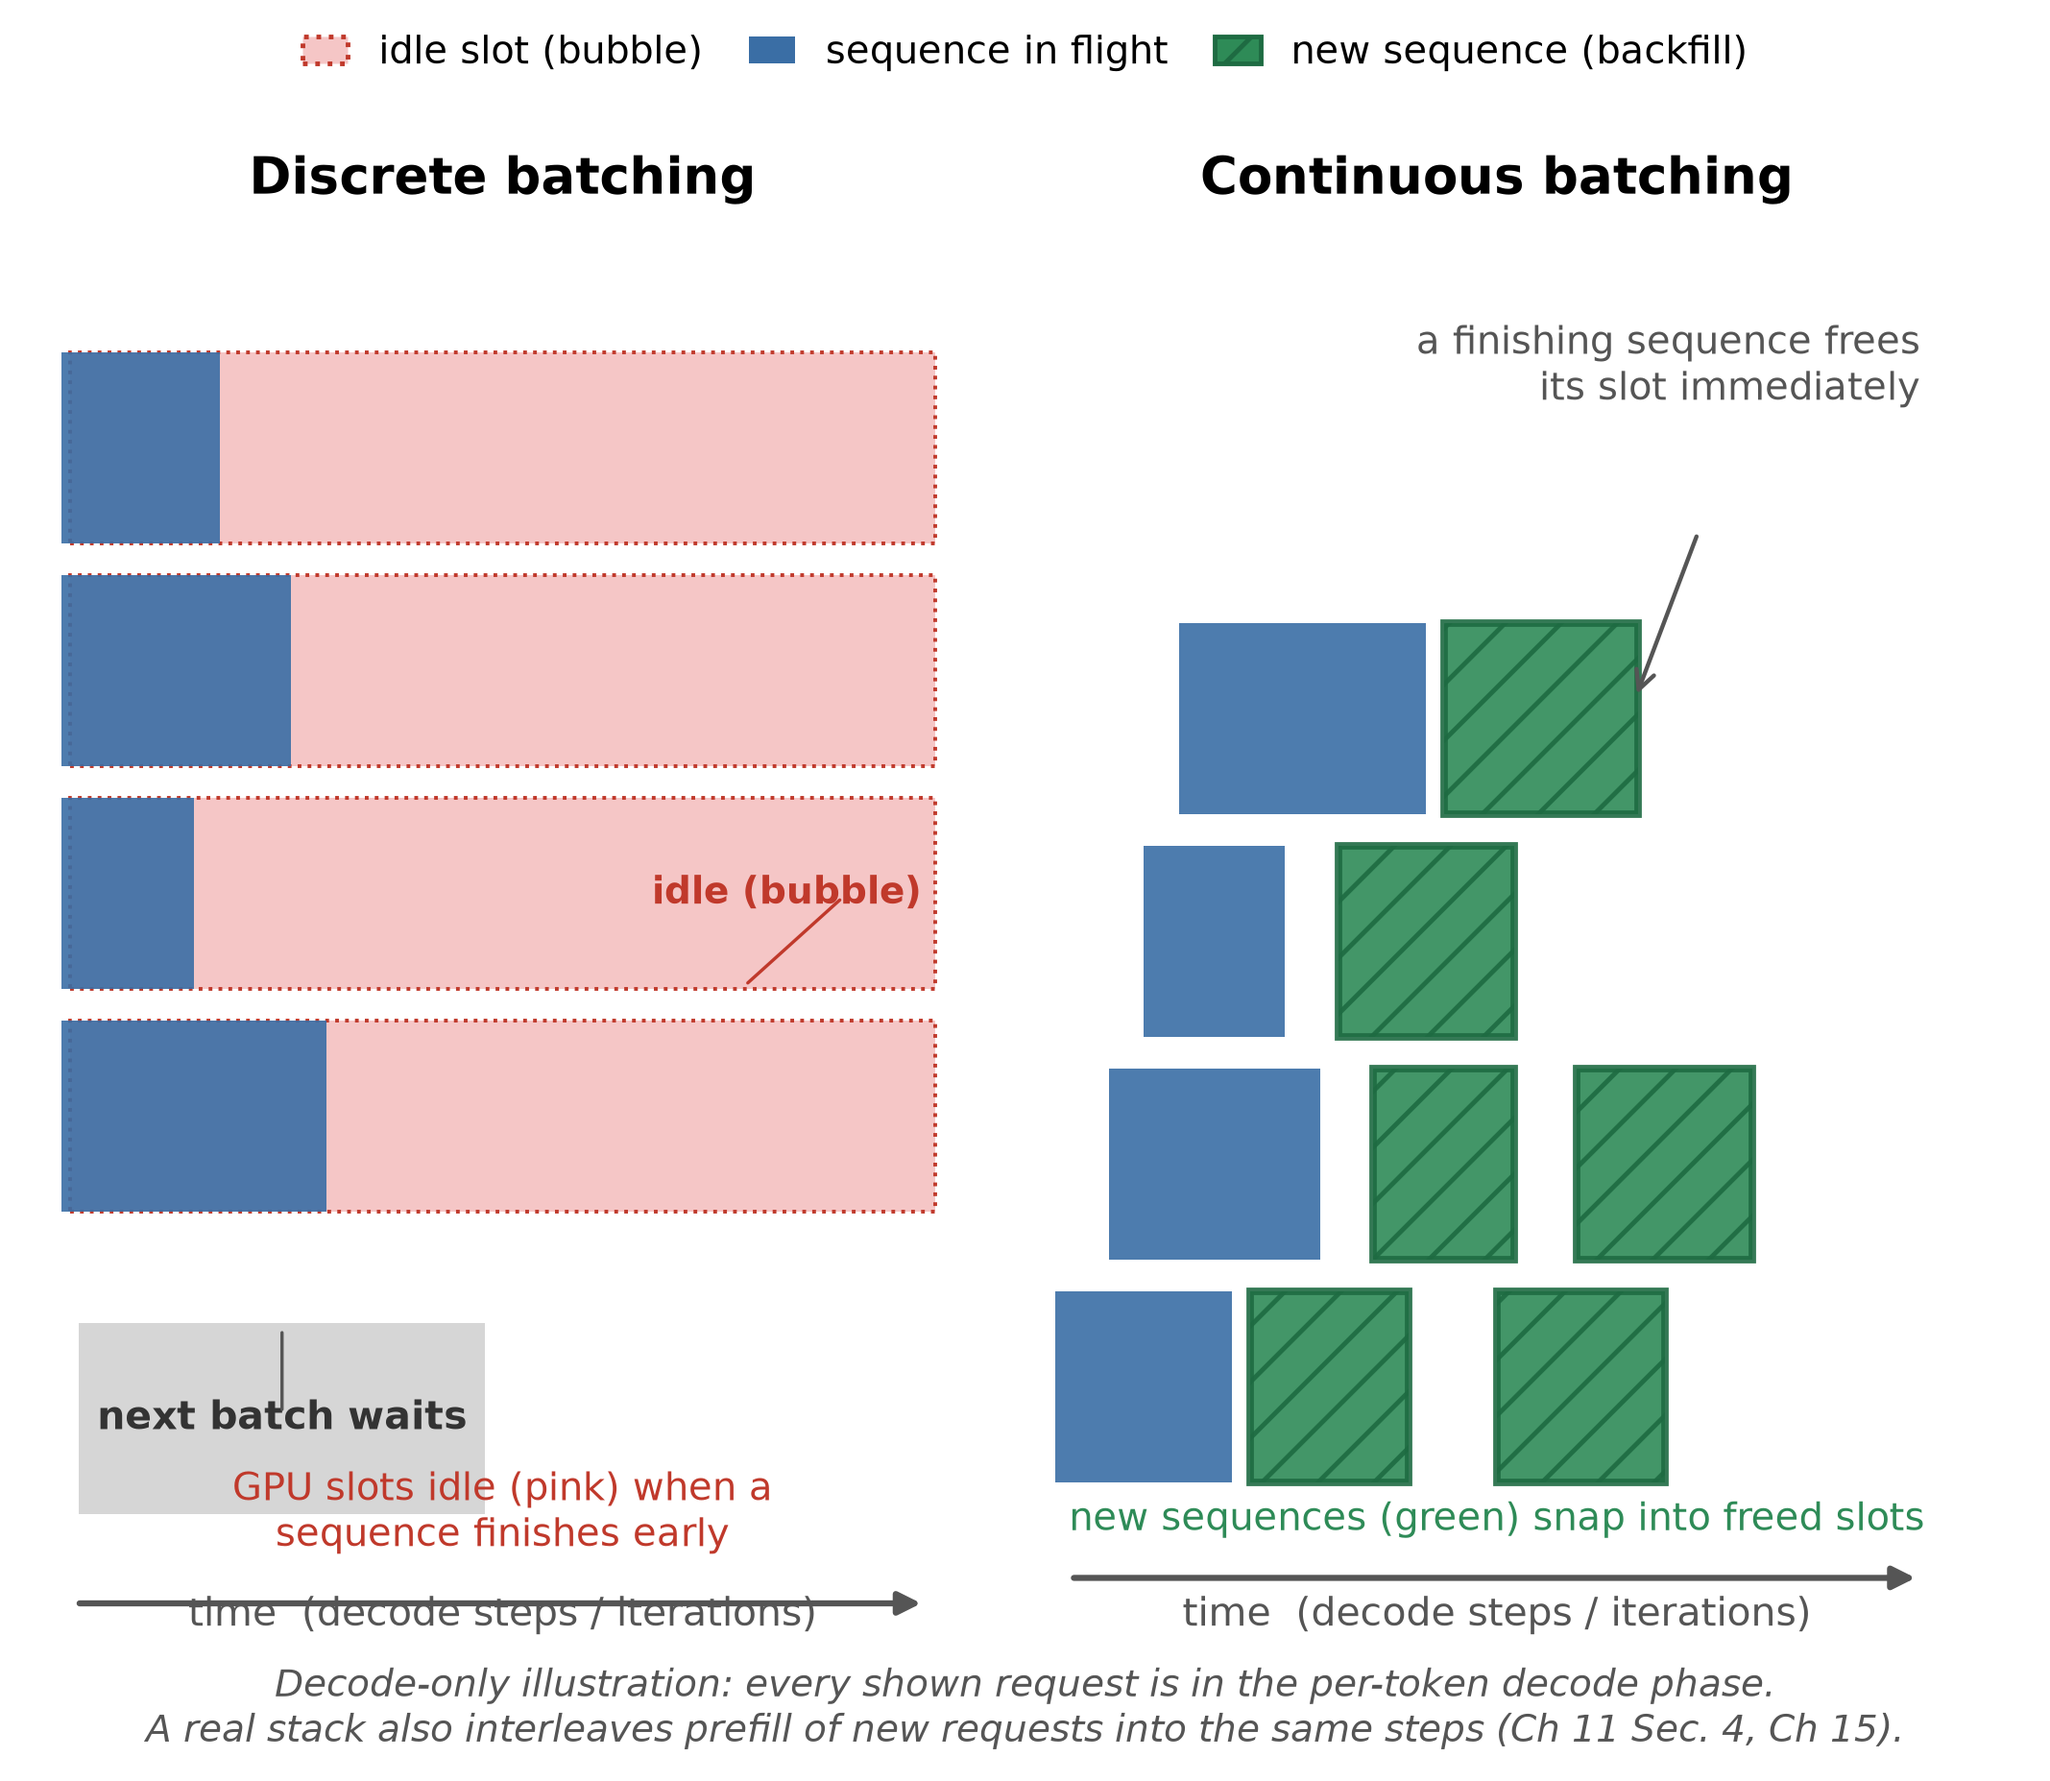
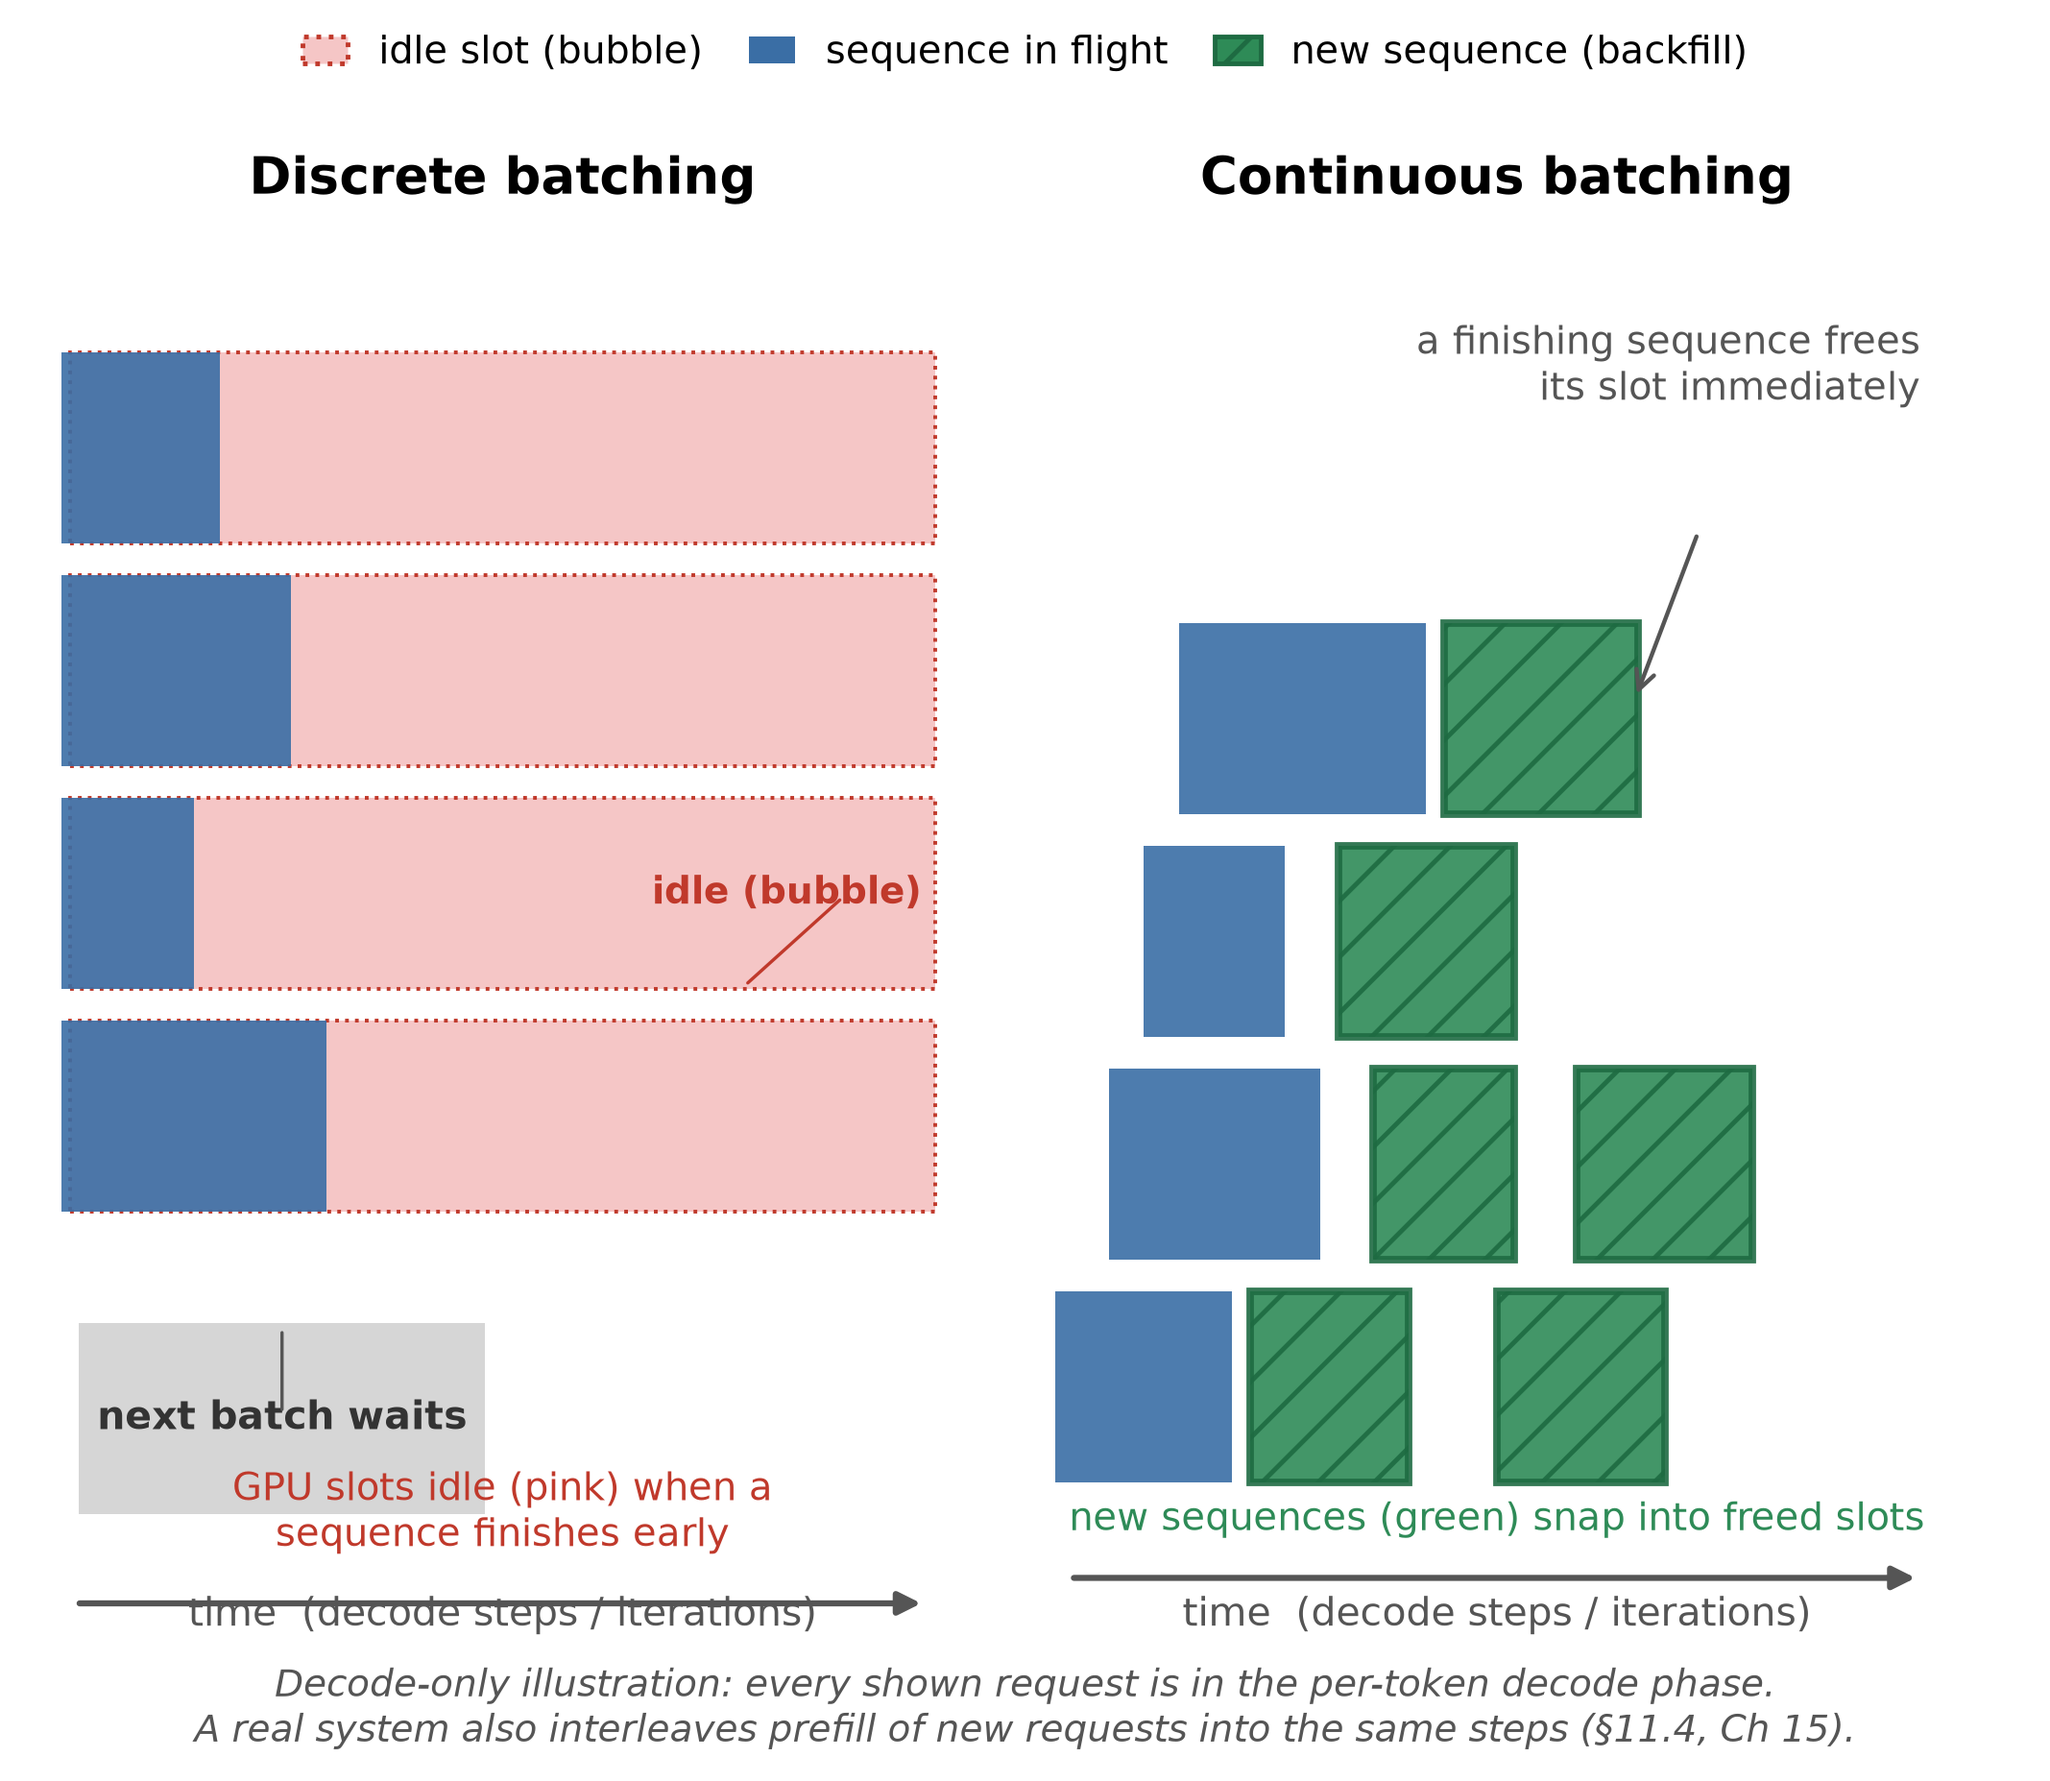
Loop2: Fig 11.2 baked caption 'A real stack...Ch 11 Sec. 4' -> 'A real system...§11.4, Ch 15'; add PDF emit (Type42) - vision-verified, min 8.0pt

Changed region(s): [[0.0927, 0.9526, 0.9274, 0.9833]]

diff --git a/render/fig_ch11_batch.py b/render/fig_ch11_batch.py
@@ -91,10 +91,13 @@ ax.text(5.0, 0.35, 'new sequences (green) snap into freed slots', fontsize=8.2, 
 # scheduling. Figure-level so it spans both panels, below the time axis.
 fig.text(0.5, 0.015,
          'Decode-only illustration: every shown request is in the per-token decode phase.\n'
-         'A real stack also interleaves prefill of new requests into the same steps (Ch 11 Sec. 4, Ch 15).',
+         'A real system also interleaves prefill of new requests into the same steps (§11.4, Ch 15).',
          fontsize=8.0, color='#555', ha='center', va='bottom', style='italic')
 
 plt.tight_layout(rect=(0, 0.05, 1, 1))
 plt.savefig('design/manuscript/chapter-11/figures/fig-11-1102.png', dpi=350)
+import matplotlib as mpl
+with mpl.rc_context({'pdf.fonttype': 42, 'ps.fonttype': 42}):
+    plt.savefig('design/manuscript/chapter-11/figures/fig-11-1102.pdf', format='pdf')
 plt.close()
 print('wrote fig-11-1102')
